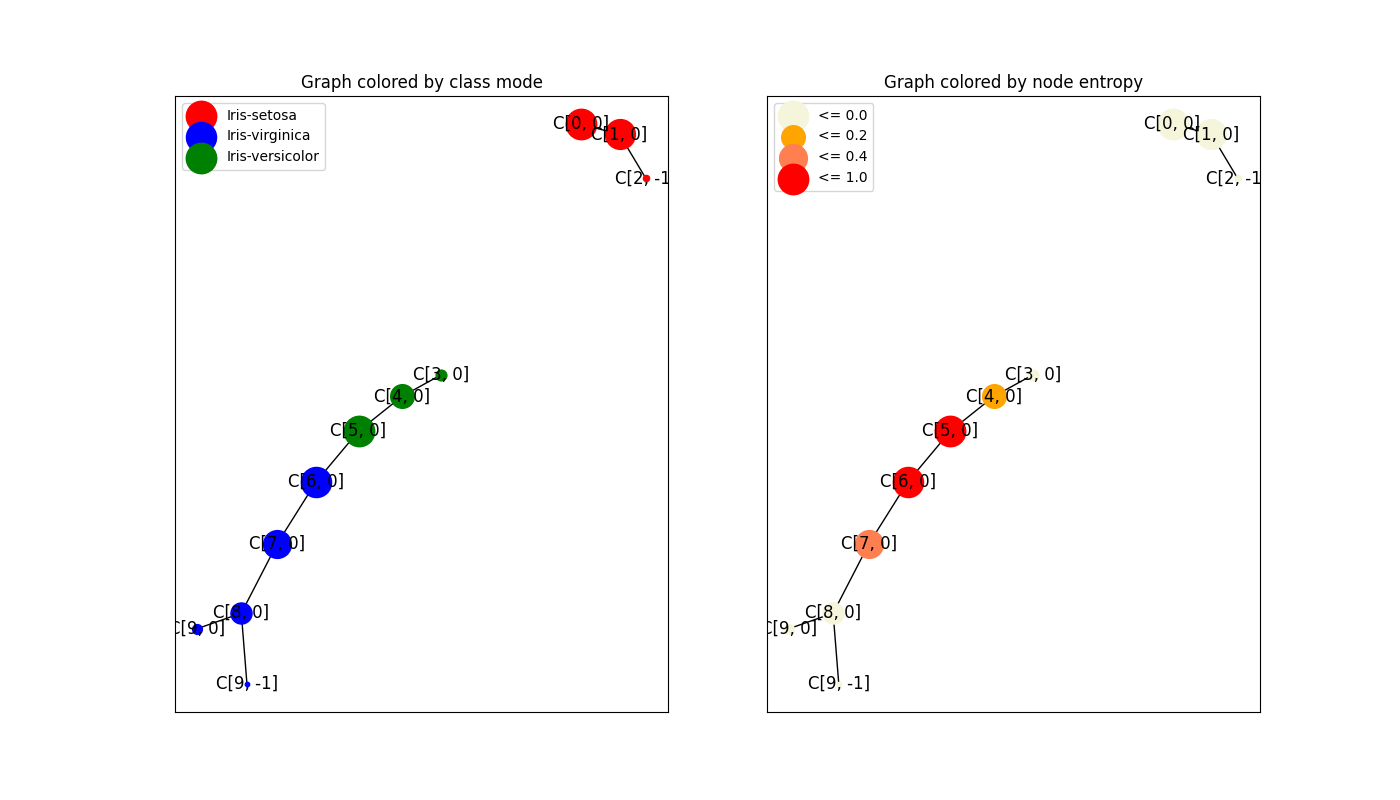
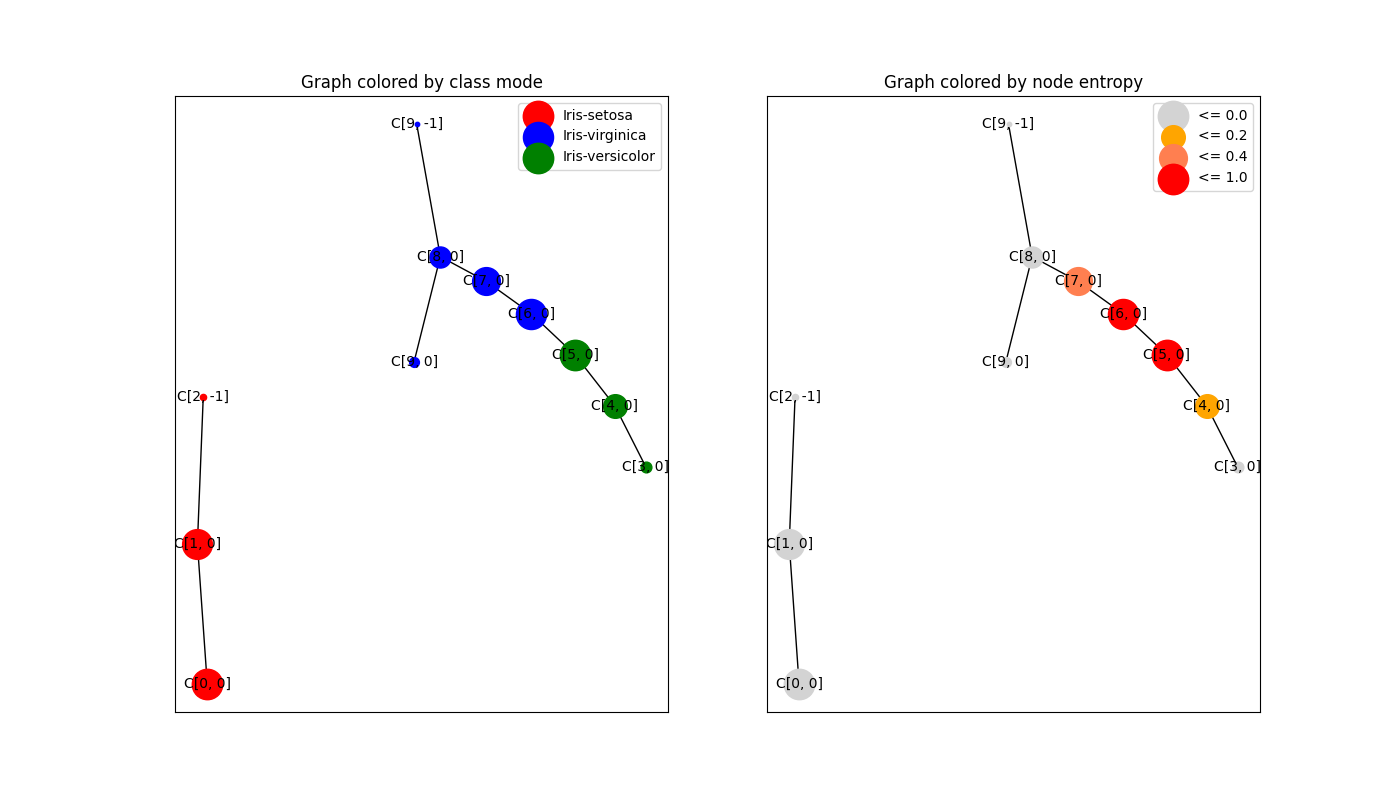
Modify iris example nodes font size

diff --git a/mapper/examples/iris.py b/mapper/examples/iris.py
@@ -58,11 +58,11 @@ def run():
                 label=c if c not in cs else None)
             cs.add(c)
     nx.draw_networkx_edges(graph, pos=pos, ax=axs[0])
-    nx.draw_networkx_labels(graph, pos, ax=axs[0])
+    nx.draw_networkx_labels(graph, pos, ax=axs[0], font_size=10)
     axs[0].legend(scatterpoints=1)
 
     entropy_colors = {
-        0.0: 'beige',
+        0.0: 'lightgray',
         0.1: 'yellow',
         0.2: 'orange',
         0.3: 'darkorange',
@@ -86,7 +86,7 @@ def run():
                 label=f'<= {treshold}' if treshold not in threshold_labels else None)
             threshold_labels.add(treshold)
     nx.draw_networkx_edges(graph, pos=pos, ax=axs[1])
-    nx.draw_networkx_labels(graph, pos, ax=axs[1])
+    nx.draw_networkx_labels(graph, pos, ax=axs[1], font_size=10)
     axs[1].legend(scatterpoints=1)
 
     fig.savefig('../../docs/images/iris.png')

diff --git a/README.md b/README.md
@@ -227,10 +227,6 @@ Example: [6]
 
 ## Mapper - Implementation
 
-![mapper-overview](docs/images/mapper-overview.png)
-<p align="center">mapper-example: Applying mapper [8]</p>
-
-
 Statistical version of mapper is used for implementation.
 Idea is to use clustering to partition space into connected
 components. Assume we have N data points x ∈ X, `filter 
@@ -277,6 +273,9 @@ image mapper-example: `point cloud`. Algorithm:
    v<sub>a, b</sub> and v<sub>c, d</sub> are connected
    if C<sub>a, b</sub> ∩ C<sub>c, d</sub> ≠ ∅
    - Example: image mapper-example: `TDA network`
+
+![mapper-overview](docs/images/mapper-overview.png)
+<p align="center">mapper-example: Applying mapper [8]</p>
 
 ## Toy Example - Iris
 
